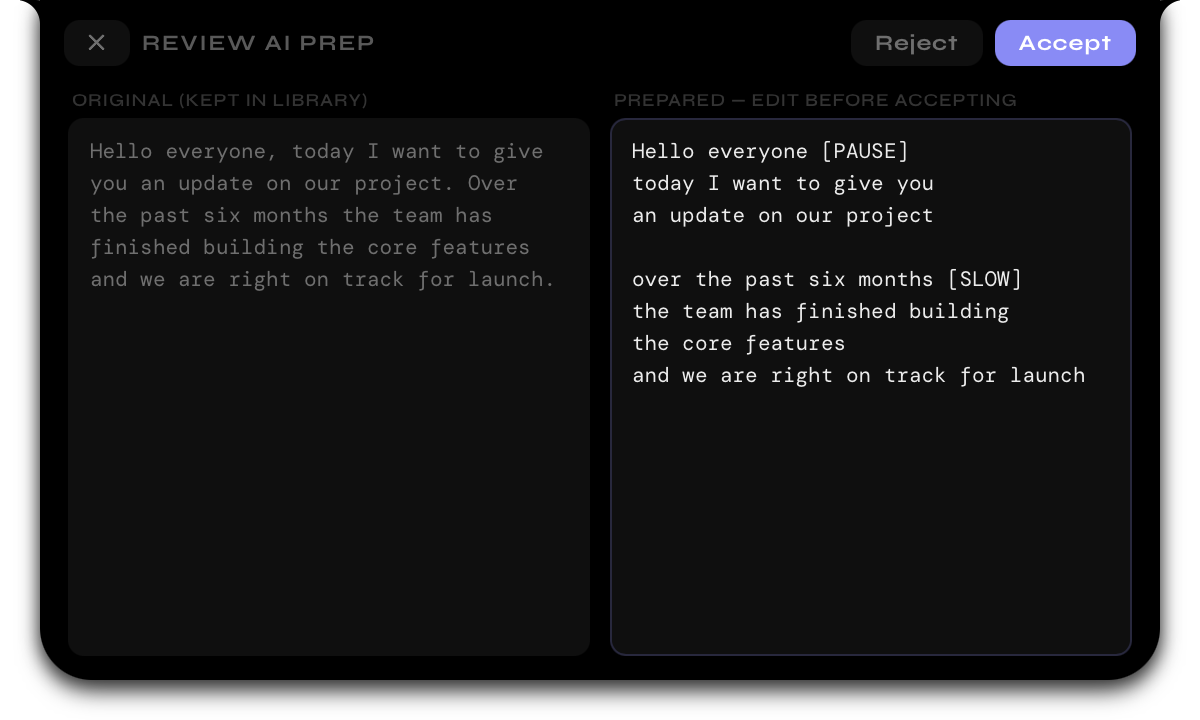
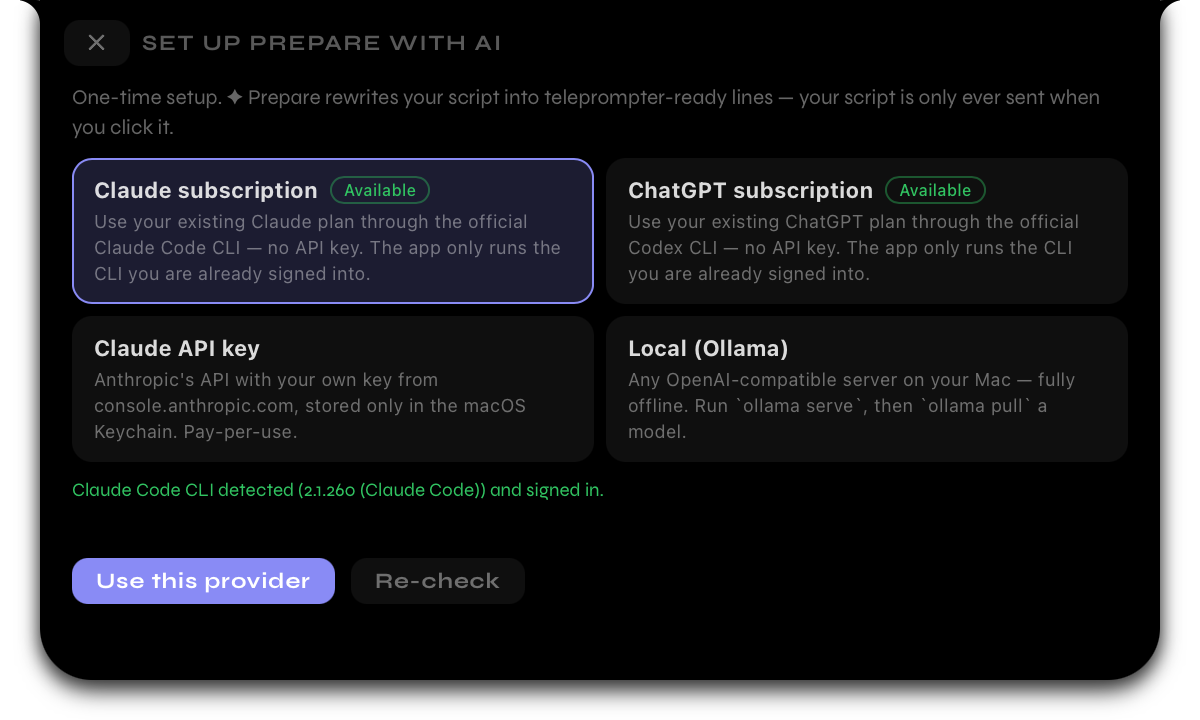
Fix consistency: honest tagline, v2.0.0 notes, four-provider screenshot
README: replace the inherited "No subscriptions. No cloud. No
accounts." tagline with an accurate statement — recognition is
on-device and needs no account; Prepare with AI is optional and sends
the script only to the provider you pick. Word Tracking section gains
the sequence-coherent rewrite and the synthesized-voice regression
suite (noting the fixtures are synthesized speech). release.yml
v2.0.0 body and CHANGELOG 2.0.0 rewritten to cover the tracking
rewrite, per-word recognition and script-biased vocabulary, and the
four AI providers with model/effort — instead of "works exactly as in
v1.1.0". README AI screenshot re-captured from the current build
showing the four-provider setup with live detection badges; all four
shots refreshed.

Claude-Session: https://claude.ai/code/session_01QHQmFousApgh7T4Bv7dXKe

diff --git a/README.md b/README.md
@@ -2,7 +2,7 @@
 
 A free, open source voice-tracking teleprompter for **macOS**.
 
-**Speak → it scrolls. Stop → it pauses. No subscriptions. No cloud. No accounts.**
+**Speak → it scrolls. Stop → it pauses.** Speech recognition runs entirely on-device — no cloud, no account. The optional Prepare-with-AI step is the only thing that sends any text anywhere, and only when you click it: you choose the provider (your own Claude or ChatGPT subscription through their official CLIs, an Anthropic API key, or a local Ollama server).
 
 ---
 
@@ -30,8 +30,8 @@ See [NOTICE](NOTICE) for license and provenance details. Upstream repository: ht
 <p align="center"><img src="docs/screenshots/editor.png" width="600" alt="The script editor: one-row header with script tabs, Prepare, and Go; autosave indicator and cue/format menus in the footer"></p>
 <p align="center"><em>The script editor: script tabs, ✦ Prepare, and Go in one row — edits autosave, cue markers and formatting live in the footer menus.</em></p>
 
-<p align="center"><img src="docs/screenshots/ai-review.png" width="600" alt="Prepare with AI side-by-side review"></p>
-<p align="center"><em>Prepare with AI: side-by-side review before anything replaces your script.</em></p>
+<p align="center"><img src="docs/screenshots/ai-review.png" width="600" alt="Prepare with AI setup: Claude subscription, ChatGPT subscription, Claude API key, and local Ollama"></p>
+<p align="center"><em>Prepare with AI: four providers — use your existing Claude or ChatGPT subscription (no API key), an API key, or a local Ollama server.</em></p>
 
 ---
 
@@ -70,9 +70,10 @@ Instead of scrolling at a fixed speed whenever it hears sound, the prompter reco
 - **Scroll follows you** — the current word is eased toward a reading line at ~35% of the viewport. Speed up, slow down, skip a phrase, or stumble: the cursor tolerates skipped words, fillers, and misreads, and never jumps backward.
 - **100% on-device** — recognition uses Apple's Speech framework (English, `en-US`) with `requiresOnDeviceRecognition`. No audio or transcripts ever leave your Mac. macOS will ask once for Speech Recognition permission (plus the existing microphone permission).
 - **Script-biased recognition (macOS 14+)** — at the start of each reading session the app builds a customized on-device language model from your script (cached per script, rebuilt on edit), biasing recognition toward the exact words on screen. On a jargon-heavy test sentence this raised words recognized from 10/18 to 13/18 and cut p90 word-to-recognition latency from 1428 ms to 792 ms; common-vocabulary text is unaffected. On older systems the stock model is used, silently. Display-side responsiveness is also tuned so the highlight keeps up with your voice: the scroll-easing time constant dropped from ~280 ms to ~100 ms and the spoken-word fade from 300 ms to 150 ms. Measurement methodology and full numbers: [docs/ARCHITECTURE.md](docs/ARCHITECTURE.md) §3.3.
+- **Sequence-coherent alignment** — a single stray common word ("I", "the", "and") can begin the next sentence too, and the old matcher would teleport the cursor there permanently. The current matcher aligns whole phrases: stopwords can't trigger a jump, a jump needs a two-word anchor, and the cursor commits only stable words and can correct itself within a bounded window. It's tuned and regression-tested against a suite of **synthesized-voice fixtures** — 23 recordings made by running macOS text-to-speech (three voices, two speaking rates, plus deliberate fillers, repeats, a skipped word, a restart, and a mid-sentence silence) back through the real recognizer. Across all of them the cursor never teleports to the wrong sentence and finishes within a couple of words of the true end. Method and the before/after table: [docs/ARCHITECTURE.md](docs/ARCHITECTURE.md) §3.3.
 - **Graceful fallback** — if Speech permission is denied or the on-device English model isn't installed (System Settings › Keyboard › Dictation), the app falls back to the original frequency-based voice activation and says so in Settings. You can also turn Word Tracking off entirely.
 
-Under the hood: a small Swift sidecar streams on-device partial transcripts to the app, and a forward-searching matcher aligns them against the tokenized script. Details in [docs/ARCHITECTURE.md](docs/ARCHITECTURE.md) §3.1.
+Under the hood: a small Swift sidecar streams on-device per-word transcripts to the app, and the sequence-coherent matcher aligns them against the tokenized script. Details in [docs/ARCHITECTURE.md](docs/ARCHITECTURE.md) §3.1 and §3.3.
 
 ---
 

diff --git a/CHANGELOG.md b/CHANGELOG.md
@@ -1,9 +1,11 @@
 # Changelog
 
-## v2.0.0 — 2026-09-02
+## v2.0.0 — 2026-09-04
 
 The app is renamed **AI Teleprompter** (previously "Bilingual AI
-Teleprompter") and its scope narrows to English-only speech tracking.
+Teleprompter"), its scope narrows to English-only, the word-tracking engine
+is rebuilt to be sequence-coherent, and Prepare with AI grows to four
+providers.
 
 ### Rename
 
@@ -21,6 +23,39 @@ Teleprompter") and its scope narrows to English-only speech tracking.
   (re-enter it in Settings) and the microphone/speech-recognition
   permissions (macOS asks again) — a one-time notice in the app explains
   this after the migration
+
+### Sequence-coherent word tracking
+
+- **The cursor no longer teleports.** The old matcher used greedy
+  first-match within a 12-word lookahead, committed from unstable partials —
+  a single stray common word ("I", "the", "and") that also began the next
+  sentence could jump the cursor there permanently. The new matcher aligns
+  whole phrases: an English **stopword list** can confirm the next word but
+  never justify a jump; a jump requires a **two-word (bigram) anchor** (a
+  three-word anchor allows a longer forward resync after the recognizer
+  drops a clause); the partial tail is tentative and drives a **provisional**
+  display cursor while only **stable** words **commit**; and a stable anchor
+  can **backtrack** up to three words to undo a wrong jump. Numbers,
+  percentages, years, acronyms, hyphens, and possessives are matched in
+  spoken form (`23%` ↔ "twenty three percent", `2027` ↔ "twenty twenty
+  seven", `UIUC` ↔ "u i u c"); fuzzy matching tolerates edit distance 1 on
+  longer words
+- **Per-word recognition + script-biased vocabulary.** The sidecar emits
+  each transcription segment's substring, timing, and confidence; every
+  recognition request is biased with the script's non-stopword vocabulary
+  (`contextualStrings`, all macOS versions) on top of the customized
+  language model (now with sliding n-gram phrases), plus an optional
+  **Tricky words** list in Settings (bare words or `word=phonemes` X-SAMPA
+  pronunciations) for proper nouns the recognizer misreads
+- **Synthesized-voice regression suite.** 23 fixtures generated by running
+  macOS text-to-speech (three voices, two rates) plus five misread variants
+  (fillers, a repeat, a skipped word, a restart, a 2-second silence) back
+  through the real recognizer, replayed deterministically in CI. Tuned
+  against the whole set: across every fixture the committed cursor never
+  overshoots (no wrong teleport) and ends within ≤ 3 words of the true end;
+  the original teleport case is a committed regression test. Fixtures are
+  synthesized speech; generation (`scripts/make-fixtures.sh`) needs macOS
+  and stays out of CI
 
 ### Prepare with AI: subscriptions, models, and effort
 
